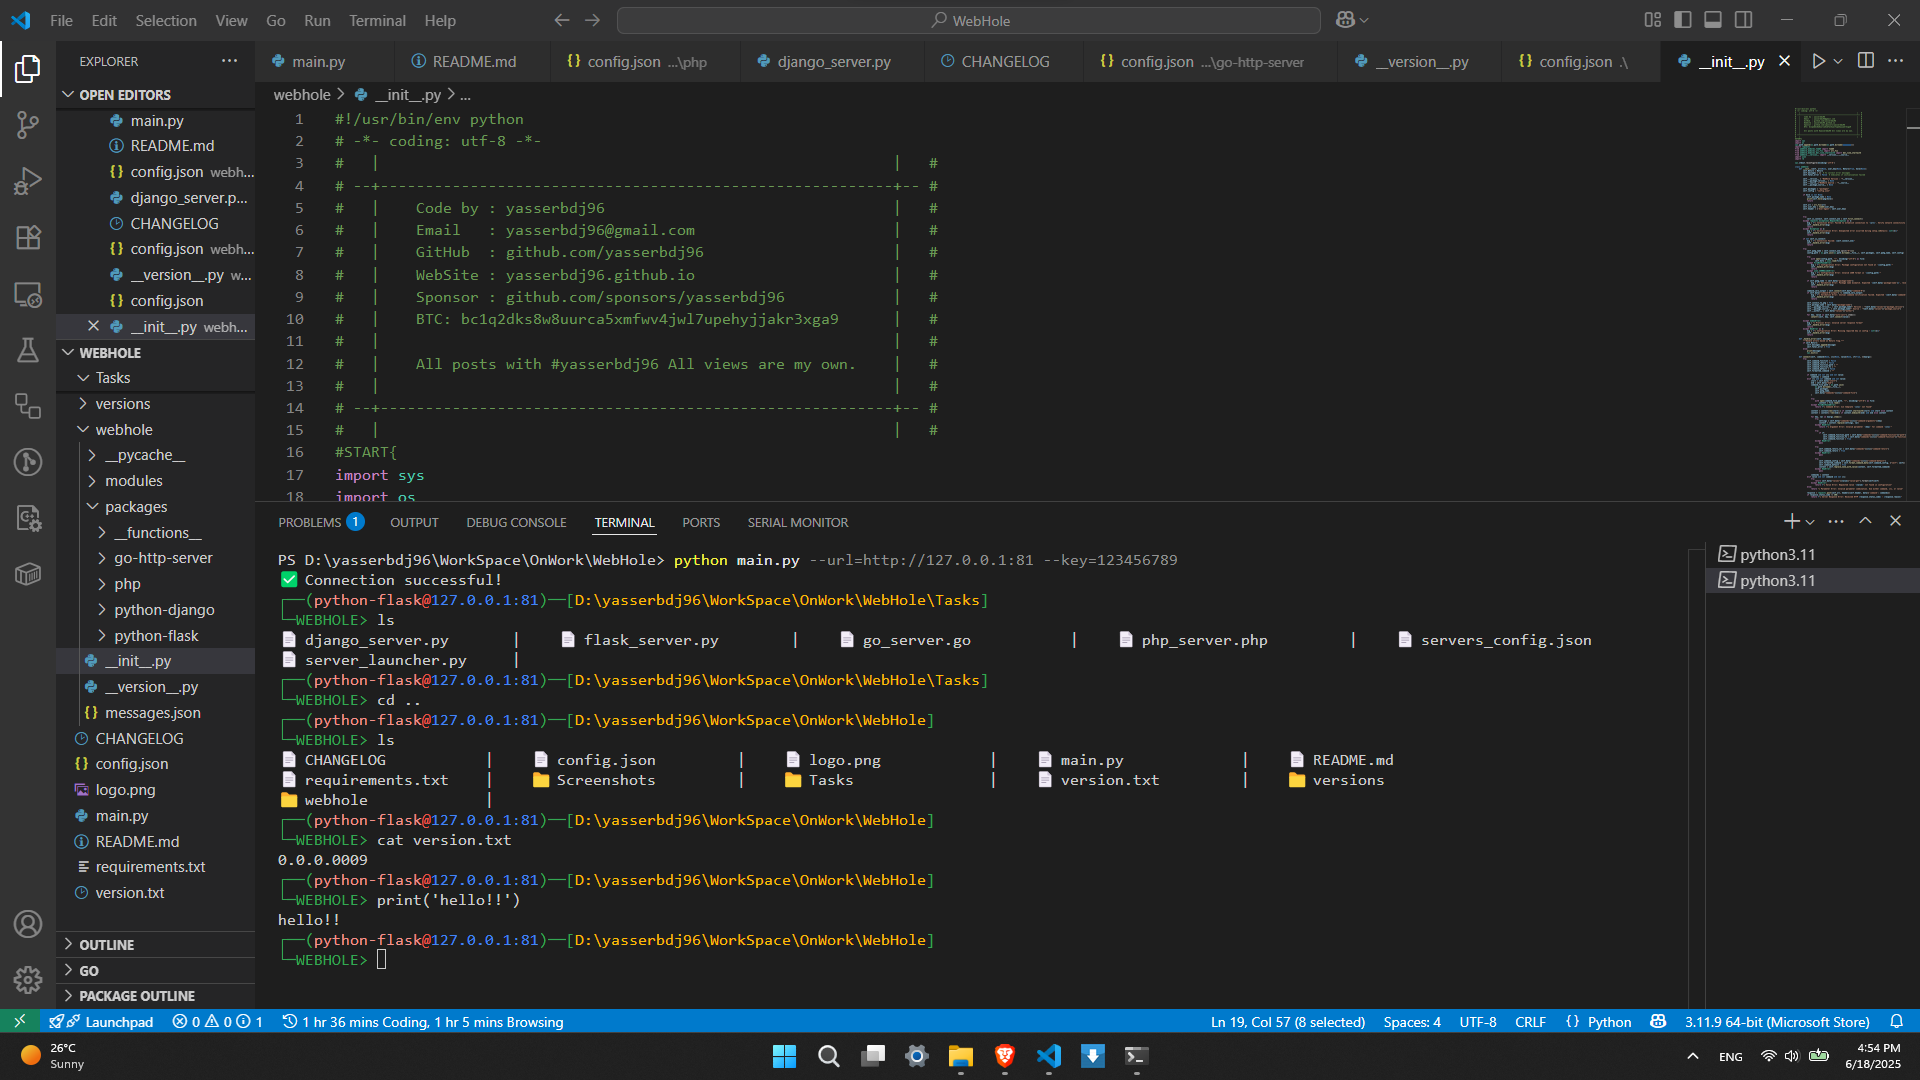
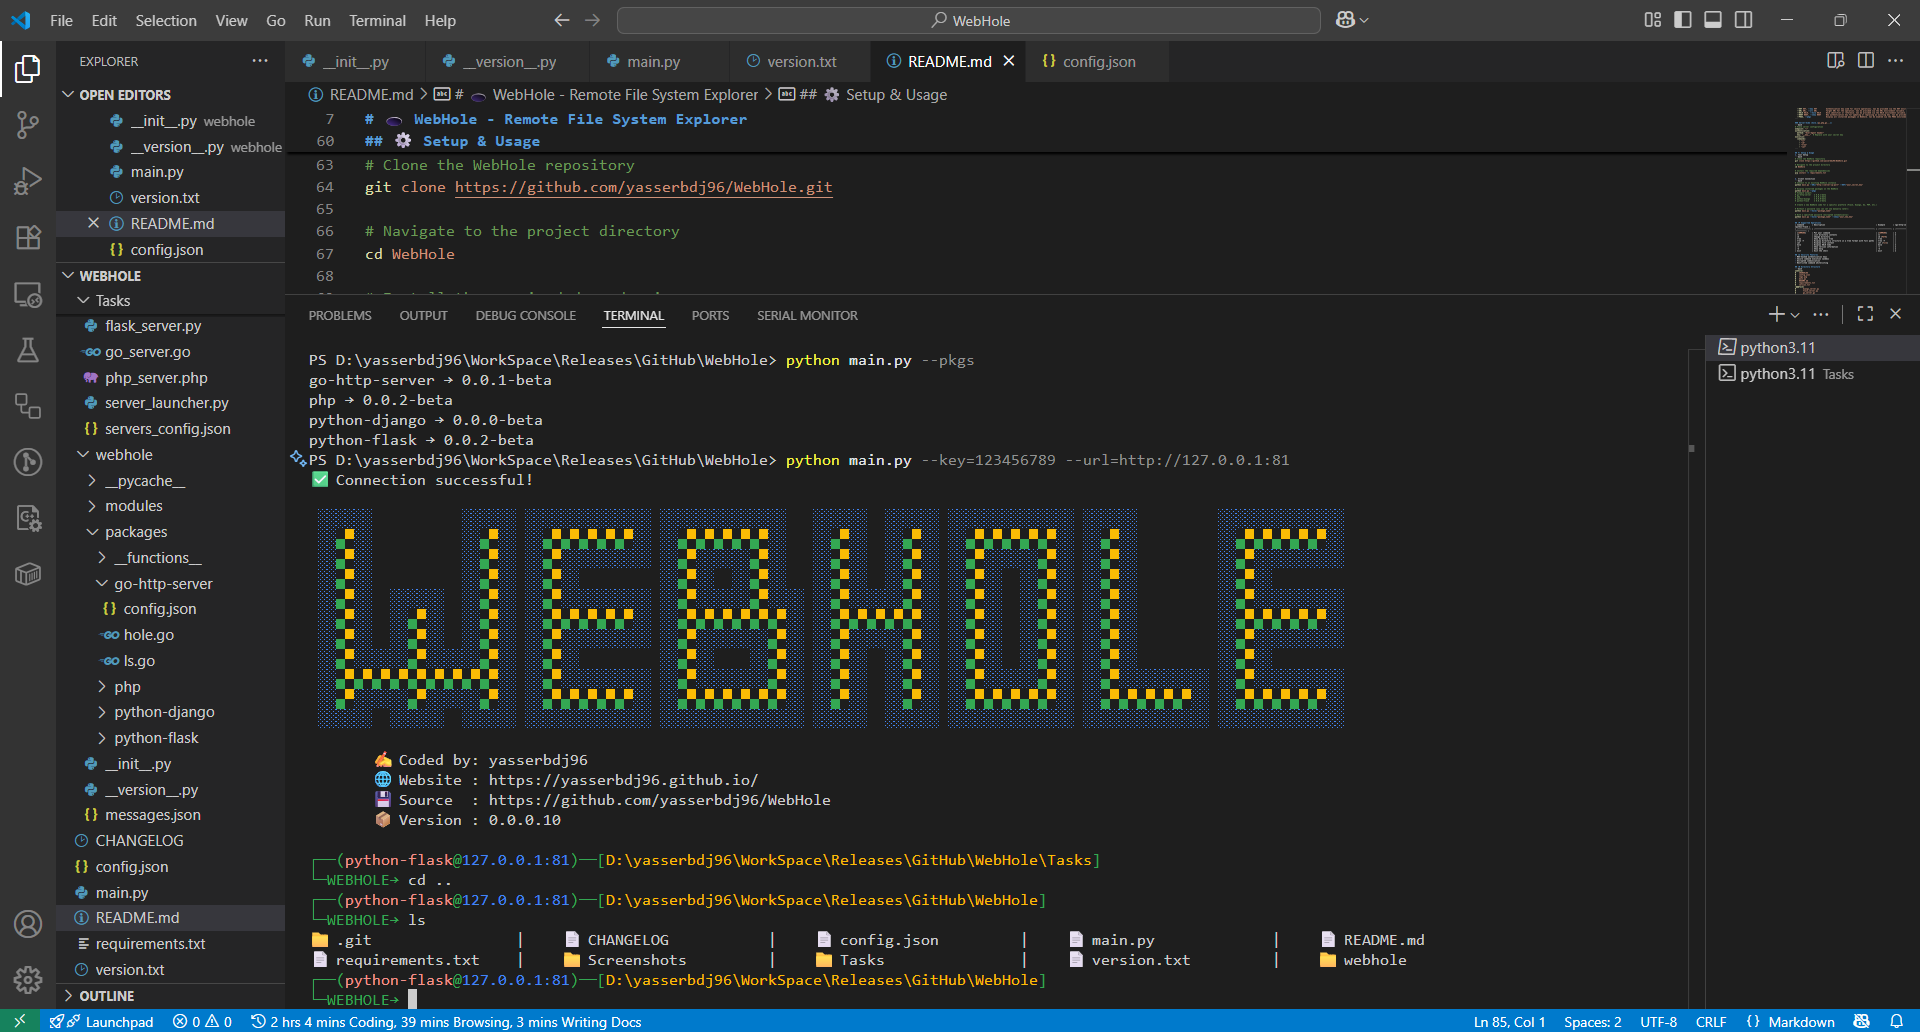
0.0.0.10
- Fixed multiple bugs in main.py to improve stability and overall performance.
 - Updated source URLs.
 - Added --pkgs command to display installed packages.
 - Added --nkey option for creating new hole codes with an automatically encrypted password.
 - Updated README and screenshots.

diff --git a/main.py b/main.py
@@ -1,18 +1,24 @@
 #START{
 from webhole import webhole
+from webhole.__version__ import __version__,__source__,__author__,__website__
 import argparse
 import os
 from hexor import *
 import json
 import sys
+import hashlib
 
 # Create an ArgumentParser object
-parser = argparse.ArgumentParser()
+parser = argparse.ArgumentParser(
+    description="Webhole Command-Line Interface: Configure keys, URLs, and manage packages."
+)
 
 #
-parser.add_argument('--KEY', '--key', dest='KEY', type=str, default=os.getenv('KEY', None), help='Specify the key for the operation.')
-parser.add_argument('--URL', '--url', dest='URL', type=str, default=os.getenv('URL', None), help='Specify the URL for the operation.')
-parser.add_argument('--HOLE', '--hole', dest='HOLE', type=str, default=os.getenv('HOLE', None), help='Specify the hole for the operation.')
+parser.add_argument('--KEY', '--key', dest='KEY', type=str, default=os.getenv('KEY', None), help='Authentication key used for secure operations. Can be provided via the KEY environment variable.')
+parser.add_argument('--URL', '--url', dest='URL', type=str, default=os.getenv('URL', None), help='Target URL for the operation. Can be provided via the URL environment variable.')
+parser.add_argument('--HOLE', '--hole', dest='HOLE', type=str, default=os.getenv('HOLE', None), help='Hole identifier or reference. Can be provided via the HOLE environment variable.')
+parser.add_argument('--NKEY', '--nkey', dest='NKEY', type=str, default=os.getenv('NKEY', None), help='New authentication key for updating or replacing an existing key. Can be provided via the NKEY environment variable.')
+parser.add_argument('--PKGS', '--pkgs',dest='PKGS',action='store_true',default=bool(os.getenv('PKGS', False)),help='Display all installed packages in Webhole. Can be enabled via the PKGS environment variable.')
 
 # Parse the command-line arguments
 args = parser.parse_args()
@@ -21,16 +27,20 @@ args = parser.parse_args()
 KEY = str(args.KEY)
 URL = str(args.URL)
 HOLE = str(args.HOLE)
+if args.NKEY!=None:
+    NKEY = md5_hash = hashlib.md5(str(args.NKEY).encode()).hexdigest()
+else:
+    NKEY = args.NKEY
 
- #colors with hexor:
+# colors with hexor:
 color=hexor(True,"hex")
 #used hex colors in this programm:
-c_red="#ea4335"#red
-c_white_red="#f3938b"#white-red
-c_blue="#4285f4"#blue
-c_yellow="#fbbc05"#yellow
-c_green="#34a853"#green
-c_white="#ffffff"
+c_red="#ea4335"# red
+c_white_red="#f3938b"# white-red
+c_blue="#4285f4"# blue
+c_yellow="#fbbc05"# yellow
+c_green="#34a853"# green
+c_white="#ffffff"# white
 
 def match_command(user_input, commands_json):
     parts = user_input.strip().split()
@@ -49,6 +59,26 @@ def match_command(user_input, commands_json):
     command_config = commands_json[base_command]
     return command_config, base_command, remaining_args[0] if remaining_args else None
 
+def process_logo(logo_lines, version, source,author,website, color_map=None):
+    if color_map is None:
+        color_map = {
+            '░': f'{color.c("░", c_blue)}',  # Blue
+            '▄': f'{color.c("▄", c_green)}',  # Green
+            '▀': f'{color.c("▀", c_yellow)}',  # Yellow
+        }
+    
+    # Join all lines with newlines
+    result = "\n".join(logo_lines)
+    
+    # Replace each char according to the map
+    for char, colored_char in color_map.items():
+        result = result.replace(char, colored_char)
+    
+    result = result.replace("__version__", version)
+    result = result.replace("__source__", source)
+    result = result.replace("__author__", author)
+    result = result.replace("__website__", website)
+    return result
 
 if URL!=str('None') and KEY!=str('None'):
     try:
@@ -68,36 +98,30 @@ if URL!=str('None') and KEY!=str('None'):
     # Read JSON file
     with open("config.json", "r", encoding="utf-8") as file:
         cmd_data  = json.load(file)  # Load JSON into a dictionary
+        logo = cmd_data["logo"]  # Get the "logo" key
         cmd_data = cmd_data["commands"]  # Access the "commands" key
 
+    print(process_logo(logo,__version__,__source__,__author__,__website__))
 
     xxr1=color.c('┌──(', c_green)
     xxr2=color.c(')──[', c_green)
     xxr3=color.c(']', c_green)
-    xxr4=color.c('└─WEBHOLE> ', c_green)
-    xxr_at=color.c('@', c_red)
+    xxr4=color.c('└─WEBHOLE→ ', c_green)
+    xxr_at=color.c('@', c_green)
     xxr_URL=color.c(URL, c_blue).replace("https://", "").replace("http://", "")
     xxr_package_name=color.c(package_name, c_white_red)
 
     try:
         while True:
             pwd=con.connect(value="pwd")
-            #print(pwd)
             xxr_pwd=color.c(pwd, c_yellow)
             command=input(xxr1+xxr_package_name+xxr_at+xxr_URL+xxr2+xxr_pwd+xxr3+'\n'+xxr4)
 
             if not command:
-                continue  # Ignore empty input
-
-            #parts = command.split(maxsplit=1)
-            #cmd = parts[0]  # Extract command name
-            #cmd_parts = parts[1] if len(parts) > 1 else None  # Extract argument if provided
-
-            #x=match_command(command, cmd_data)
-            #print(x)
+                continue
             
             cmd_options,cmd,cmd_parts = match_command(command, cmd_data)
-                    
+            
             if cmd_options is not None and cmd is not None:
                 c_action = cmd_options["action"]
                 c_params = cmd_options["parameters"]
@@ -144,13 +168,21 @@ if URL!=str('None') and KEY!=str('None'):
     except Exception as e:
         print(f"Error: {str(e)}")'''
 elif HOLE!=str('None'):
-    con=webhole(hole=str(HOLE))
-    
+    if NKEY!=str('None'):
+        con=webhole(hole=str(HOLE), nkey=NKEY)
+    else:
+        con=webhole(hole=str(HOLE))
+elif args.PKGS:
+    con=webhole(pkgs=True)
 else:
-    print("""usage: main.py [-h] [--KEY KEY] [--URL URL]
+    print("""usage: main.py [-h] [--KEY KEY] [--URL URL] [--HOLE HOLE] [--NKEY NKEY] [--PKGS]
+
+Webhole Command-Line Interface: Configure keys, URLs, and manage packages.
 
 options:
-  -h, --help                                      Show this help message
-  --KEY=[KEY], --key=[KEY]                        Authentication key
-  --URL=[URL], --url=[URL]                        Server endpoint URL
-  --HOLE=[PACKAGE_NAME], --hole=[PACKAGE_NAME]    Get Hole Code for a specific package""")
+  -h, --help                   Show this help message and exit.
+  --KEY KEY, --key KEY         Authentication key used for secure operations. Can be provided via the KEY environment variable.
+  --URL URL, --url URL         Target URL for the operation. Can be provided via the URL environment variable.
+  --HOLE HOLE, --hole HOLE     Hole identifier or reference. Can be provided via the HOLE environment variable.
+  --NKEY NKEY, --nkey NKEY     New authentication key for updating or replacing an existing key. Can be provided via the NKEY environment variable.       
+  --PKGS, --pkgs               Display all installed packages in Webhole. Can be enabled via the PKGS environment variable.""")

diff --git a/webhole/__init__.py b/webhole/__init__.py
@@ -28,7 +28,7 @@ import re
 sys.stdout.reconfigure(encoding='utf-8')
 
 class webhole:
-    def __init__(self, url=None, user_key=None, Return=True, hole=None):
+    def __init__(self, url=None, user_key=None, Return=True, hole=None, nkey=None, pkgs=False):
         self.Return = Return
         self.messages = []  # To collect error messages
         self.fatal_error = False  # Indicates if initialization failed
@@ -43,14 +43,19 @@ class webhole:
 
         if hole is not None:
             self.package_name = None
-            print(self.hole(pkg=hole))
+            if nkey is not None:
+                print(self.hole(pkg=hole,nkey=nkey))
+            else:
+                print(self.hole(pkg=hole))
             return 
+
+        if pkgs:
+            print(self.pkgs())
+            return
 
         self.url = url_fix(url)
         self.user_key = tomd5(user_key)
         self.header = {'User-Agent': self.user_key}
-
-        
 
         try:
             self.is_connect, self.connect_one = self.first_connect()
@@ -286,7 +291,7 @@ class webhole:
             result.append(f"{key} : {description}")
         return "\n".join(result)
     
-    def hole(self,pkg=None):
+    def hole(self,pkg=None,nkey=None):
         if pkg is None:
             pkg = self.package_name
         config_path = os.path.dirname(__file__)+"/"+self.packages+"/"+pkg+"/config.json"
@@ -296,12 +301,29 @@ class webhole:
         file_path = os.path.dirname(__file__)+"/"+self.packages+"/"+pkg+"/"+hole
         with open(file_path, 'r', encoding='utf-8') as file:
             content = file.read()
+            if nkey is not None:
+                content = content.replace("__key__", nkey)
         return content
-    """
-    def iserror(self,msg):"""
-        
+    
 
+    def pkgs(self):
+        results = []
+        search_path = os.path.join(os.path.dirname(os.path.abspath(__file__)), "packages")
 
+        for root, dirs, files in os.walk(search_path):
+            if "config.json" in files:
+                file_path = os.path.join(root, "config.json")
+                try:
+                    with open(file_path, "r", encoding="utf-8") as f:
+                        data = json.load(f)
+                        name = data.get("package-name")
+                        version = data.get("values", {}).get("package_version")
+                        if name:
+                            results.append(f"{name} → {version}")
+                except Exception as e:
+                    print(f"Error reading {file_path}: {e}")
+
+        return "\n".join(results)  # joins all lines in one string
 
 # Example usage
 '''

diff --git a/webhole/__version__.py b/webhole/__version__.py
@@ -14,6 +14,8 @@
 #   |                                                         |   #
 
 #START{
-__version__="0.0.0.0009"
+__version__="0.0.0.10"
 __source__="https://github.com/yasserbdj96/WebHole"
+__author__="yasserbdj96"
+__website__="https://yasserbdj96.github.io/"
 #}END.

diff --git a/README.md b/README.md
@@ -29,12 +29,17 @@ Whether you're managing a single PHP site or a multi-framework infrastructure, W
 ## 📦 Components
 ### Client-Side (main.py)
 ```bash
-usage: main.py [-h] [--KEY KEY] [--URL URL]
+usage: main.py [-h] [--KEY KEY] [--URL URL] [--HOLE HOLE] [--NKEY NKEY] [--PKGS]
+
+Webhole Command-Line Interface: Configure keys, URLs, and manage packages.
 
 options:
-  -h, --help     show this help message
-  --KEY, --key   Authentication key
-  --URL, --url   Server endpoint URL
+  -h, --help                   Show this help message and exit.
+  --KEY KEY, --key KEY         Authentication key used for secure operations. Can be provided via the KEY environment variable.
+  --URL URL, --url URL         Target URL for the operation. Can be provided via the URL environment variable.
+  --HOLE HOLE, --hole HOLE     Hole identifier or reference. Can be provided via the HOLE environment variable.
+  --NKEY NKEY, --nkey NKEY     New authentication key for updating or replacing an existing key. Can be provided via the NKEY environment variable.       
+  --PKGS, --pkgs               Display all installed packages in Webhole. Can be enabled via the PKGS environment variable.
 ```
 
 ### Server-Side (hole.[py,php,go...])
@@ -53,26 +58,38 @@ execution:
 ```
 
 ## ⚙ Setup & Usage
-1. Server Setup
+1. tool Setup
 ```bash
-# Install dependencies
-pip install flask
+# Clone the WebHole repository
+git clone https://github.com/yasserbdj96/WebHole.git
 
-# Start server (modify key in hole.[py,php,go...] first)
-start hole.[py,php,go...]
+# Navigate to the project directory
+cd WebHole
+
+# Install the required dependencies
+pip install -r requirements.txt
 ```
 
 2. Client Connection
 ```bash
-# Linux/macOS
-export KEY="your_secret_key"
-export URL="http://server-ip:port"
-python main.py
+# Connect to an existing WebHole instance
+python main.py --URL="http://server-ip:port" --KEY="your_secret_key"
 
-# Windows
-set KEY="your_secret_key"
-set URL="http://server-ip:port"
-python main.py
+# Display installed packages on the WebHole
+python main.py --pkgs
+# Example output:
+# go-http-server   → 0.0.1-beta
+# php              → 0.0.2-beta
+# python-django    → 0.0.0-beta
+# python-flask     → 0.0.2-beta
+
+# Create a new WebHole code for a specific platform (Flask, Django, Go, PHP, etc.)
+
+# Without a password (you can set one manually later):
+python main.py --hole="package_name"
+
+# With a specified password (encrypted automatically):
+python main.py --hole="package_name" --nkey="your_new_key"
 ```
 
 ## 🌐 Supported Operations
@@ -86,8 +103,8 @@ python main.py
 | cat            | Display file content                                          | cat [file]     | ❌              |  ✅        | ✅             | ✅        |
 | hole           | Display HOLE Code                                             | hole           | ✅              |  ✅        | ✅             | ✅        |
 | -v             | Show version information                                      | -v             | ✅              |  ✅        | ✅             | ✅        |
-| -h             | Show help	                                                 | -h             | ✅              |  ✅        | ✅             | ✅        |
-| exit           | Exit the shell	                                             | exit           | ✅              |  ✅        | ✅             | ✅        |
+| -h             | Show help	                                                   | -h             | ✅              |  ✅        | ✅             | ✅        |
+| exit           | Exit the shell	                                               | exit           | ✅              |  ✅        | ✅             | ✅        |
 
 ## 🔒 Security Features
 - MD5-hashed authentication keys
